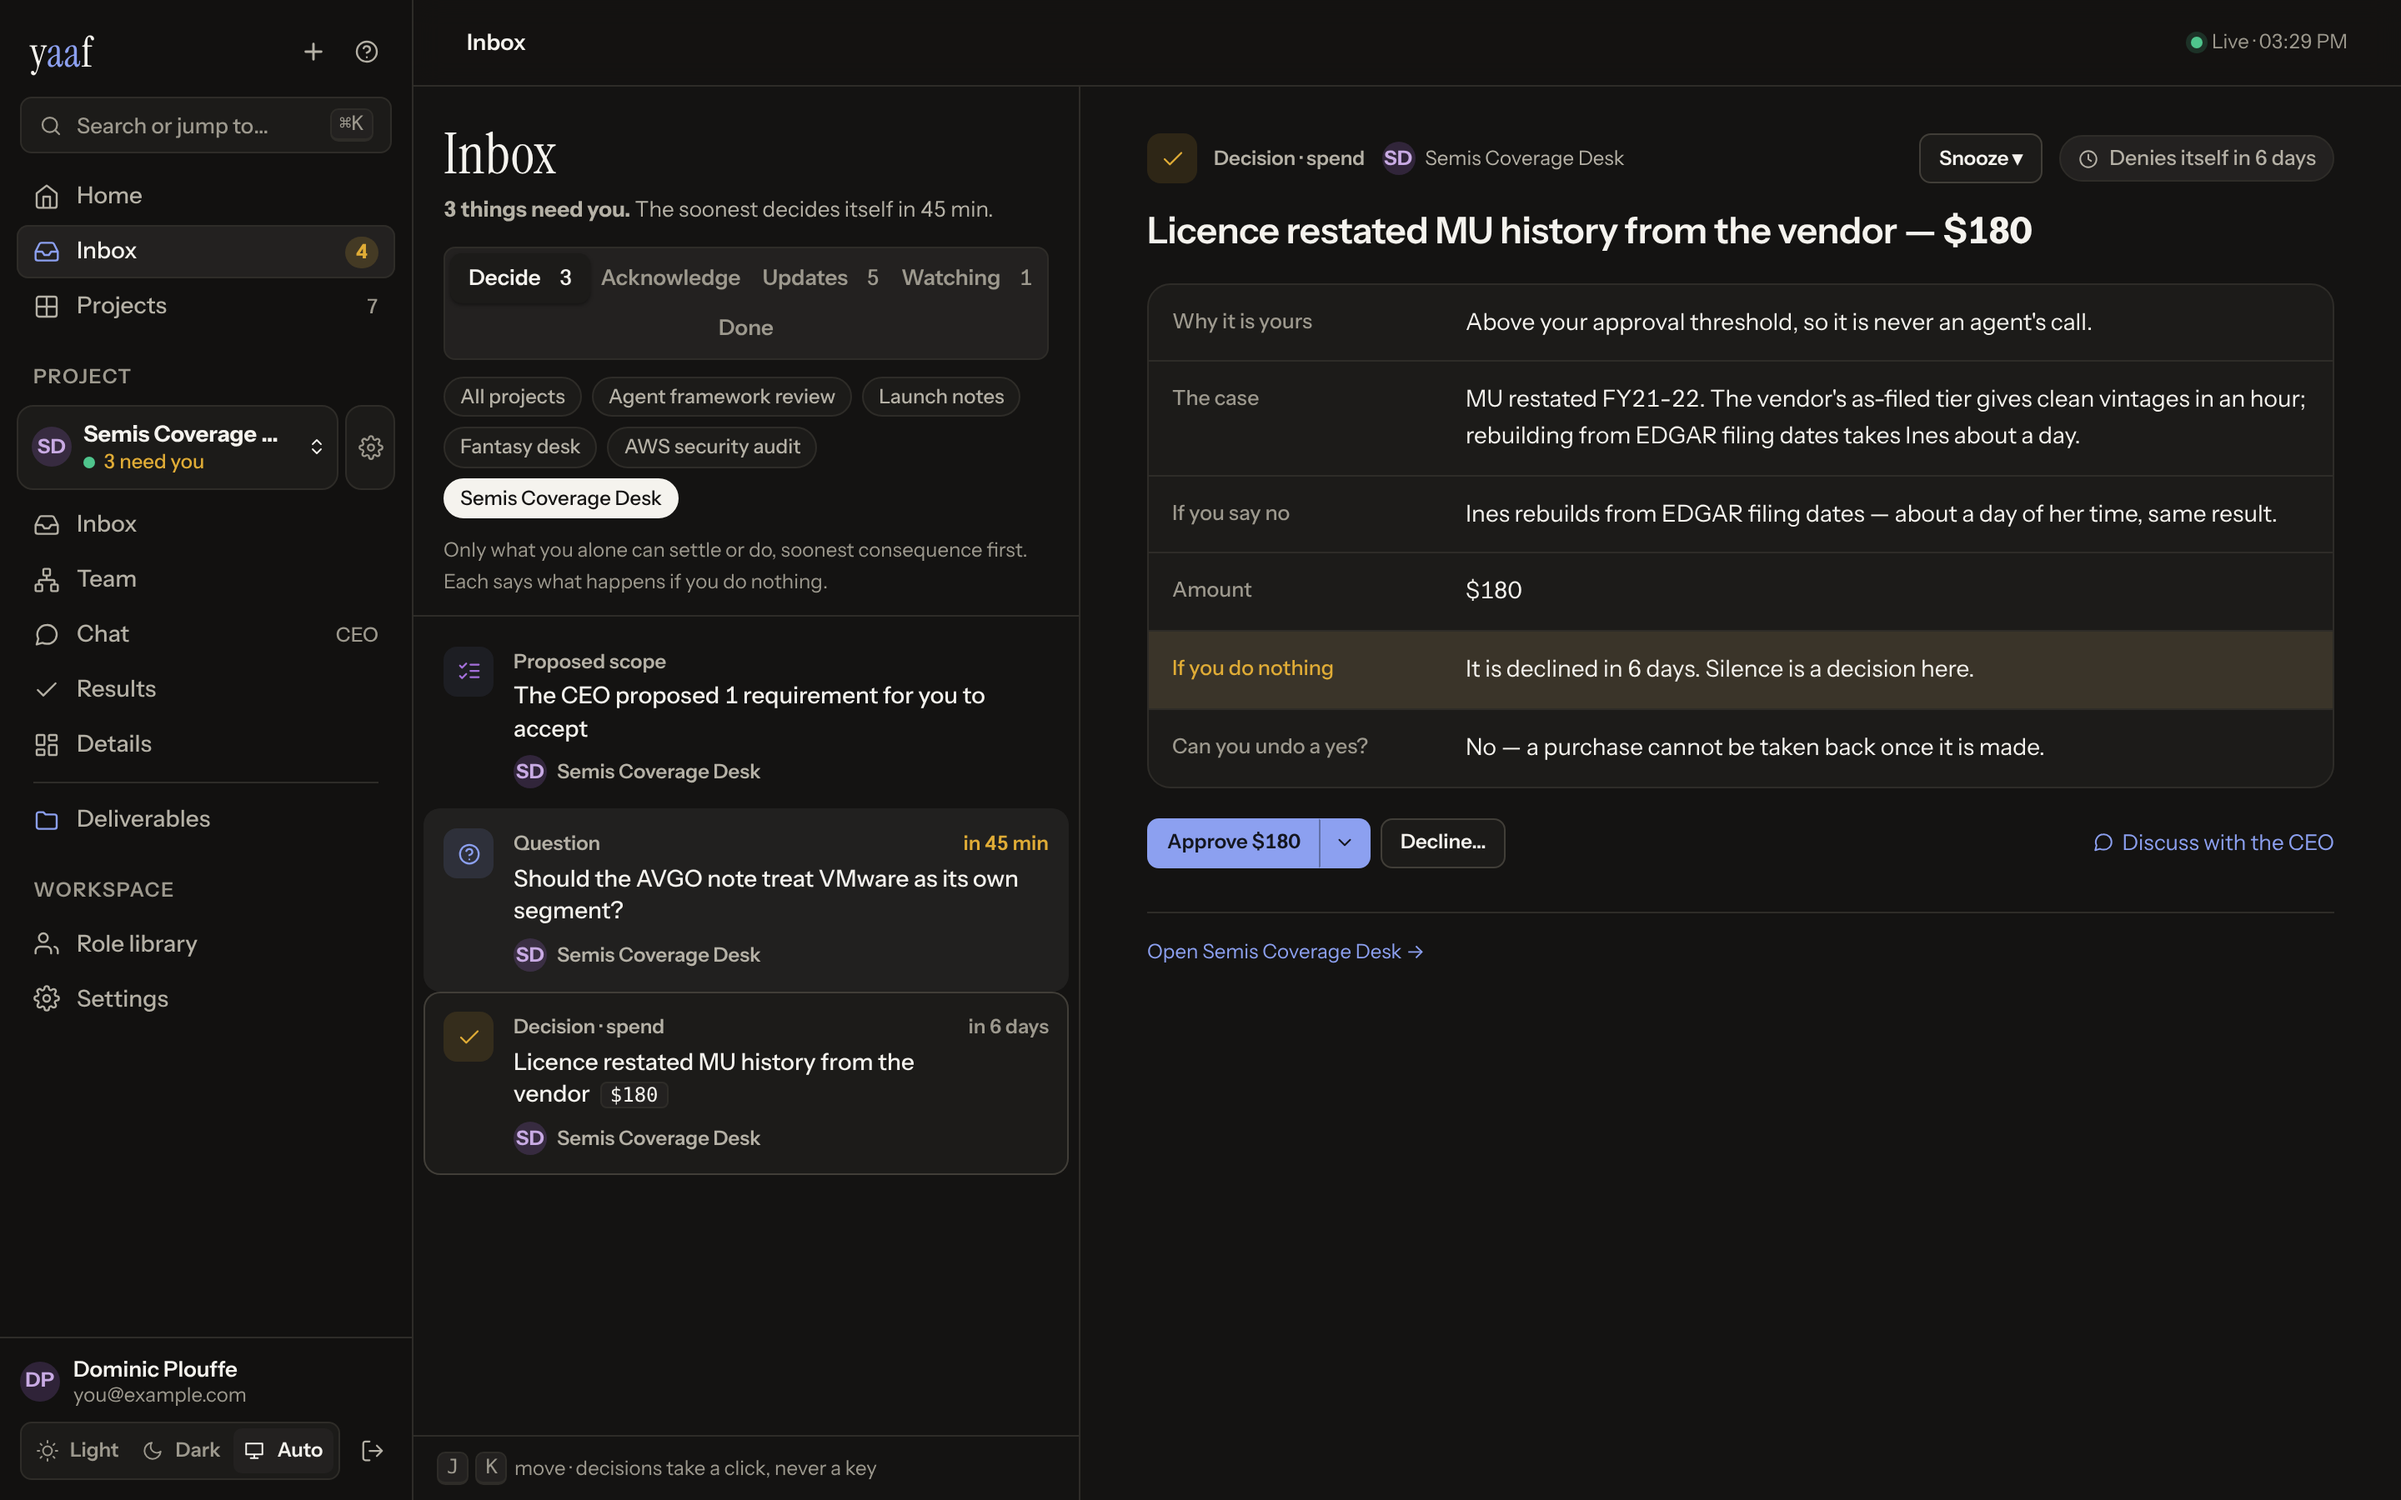
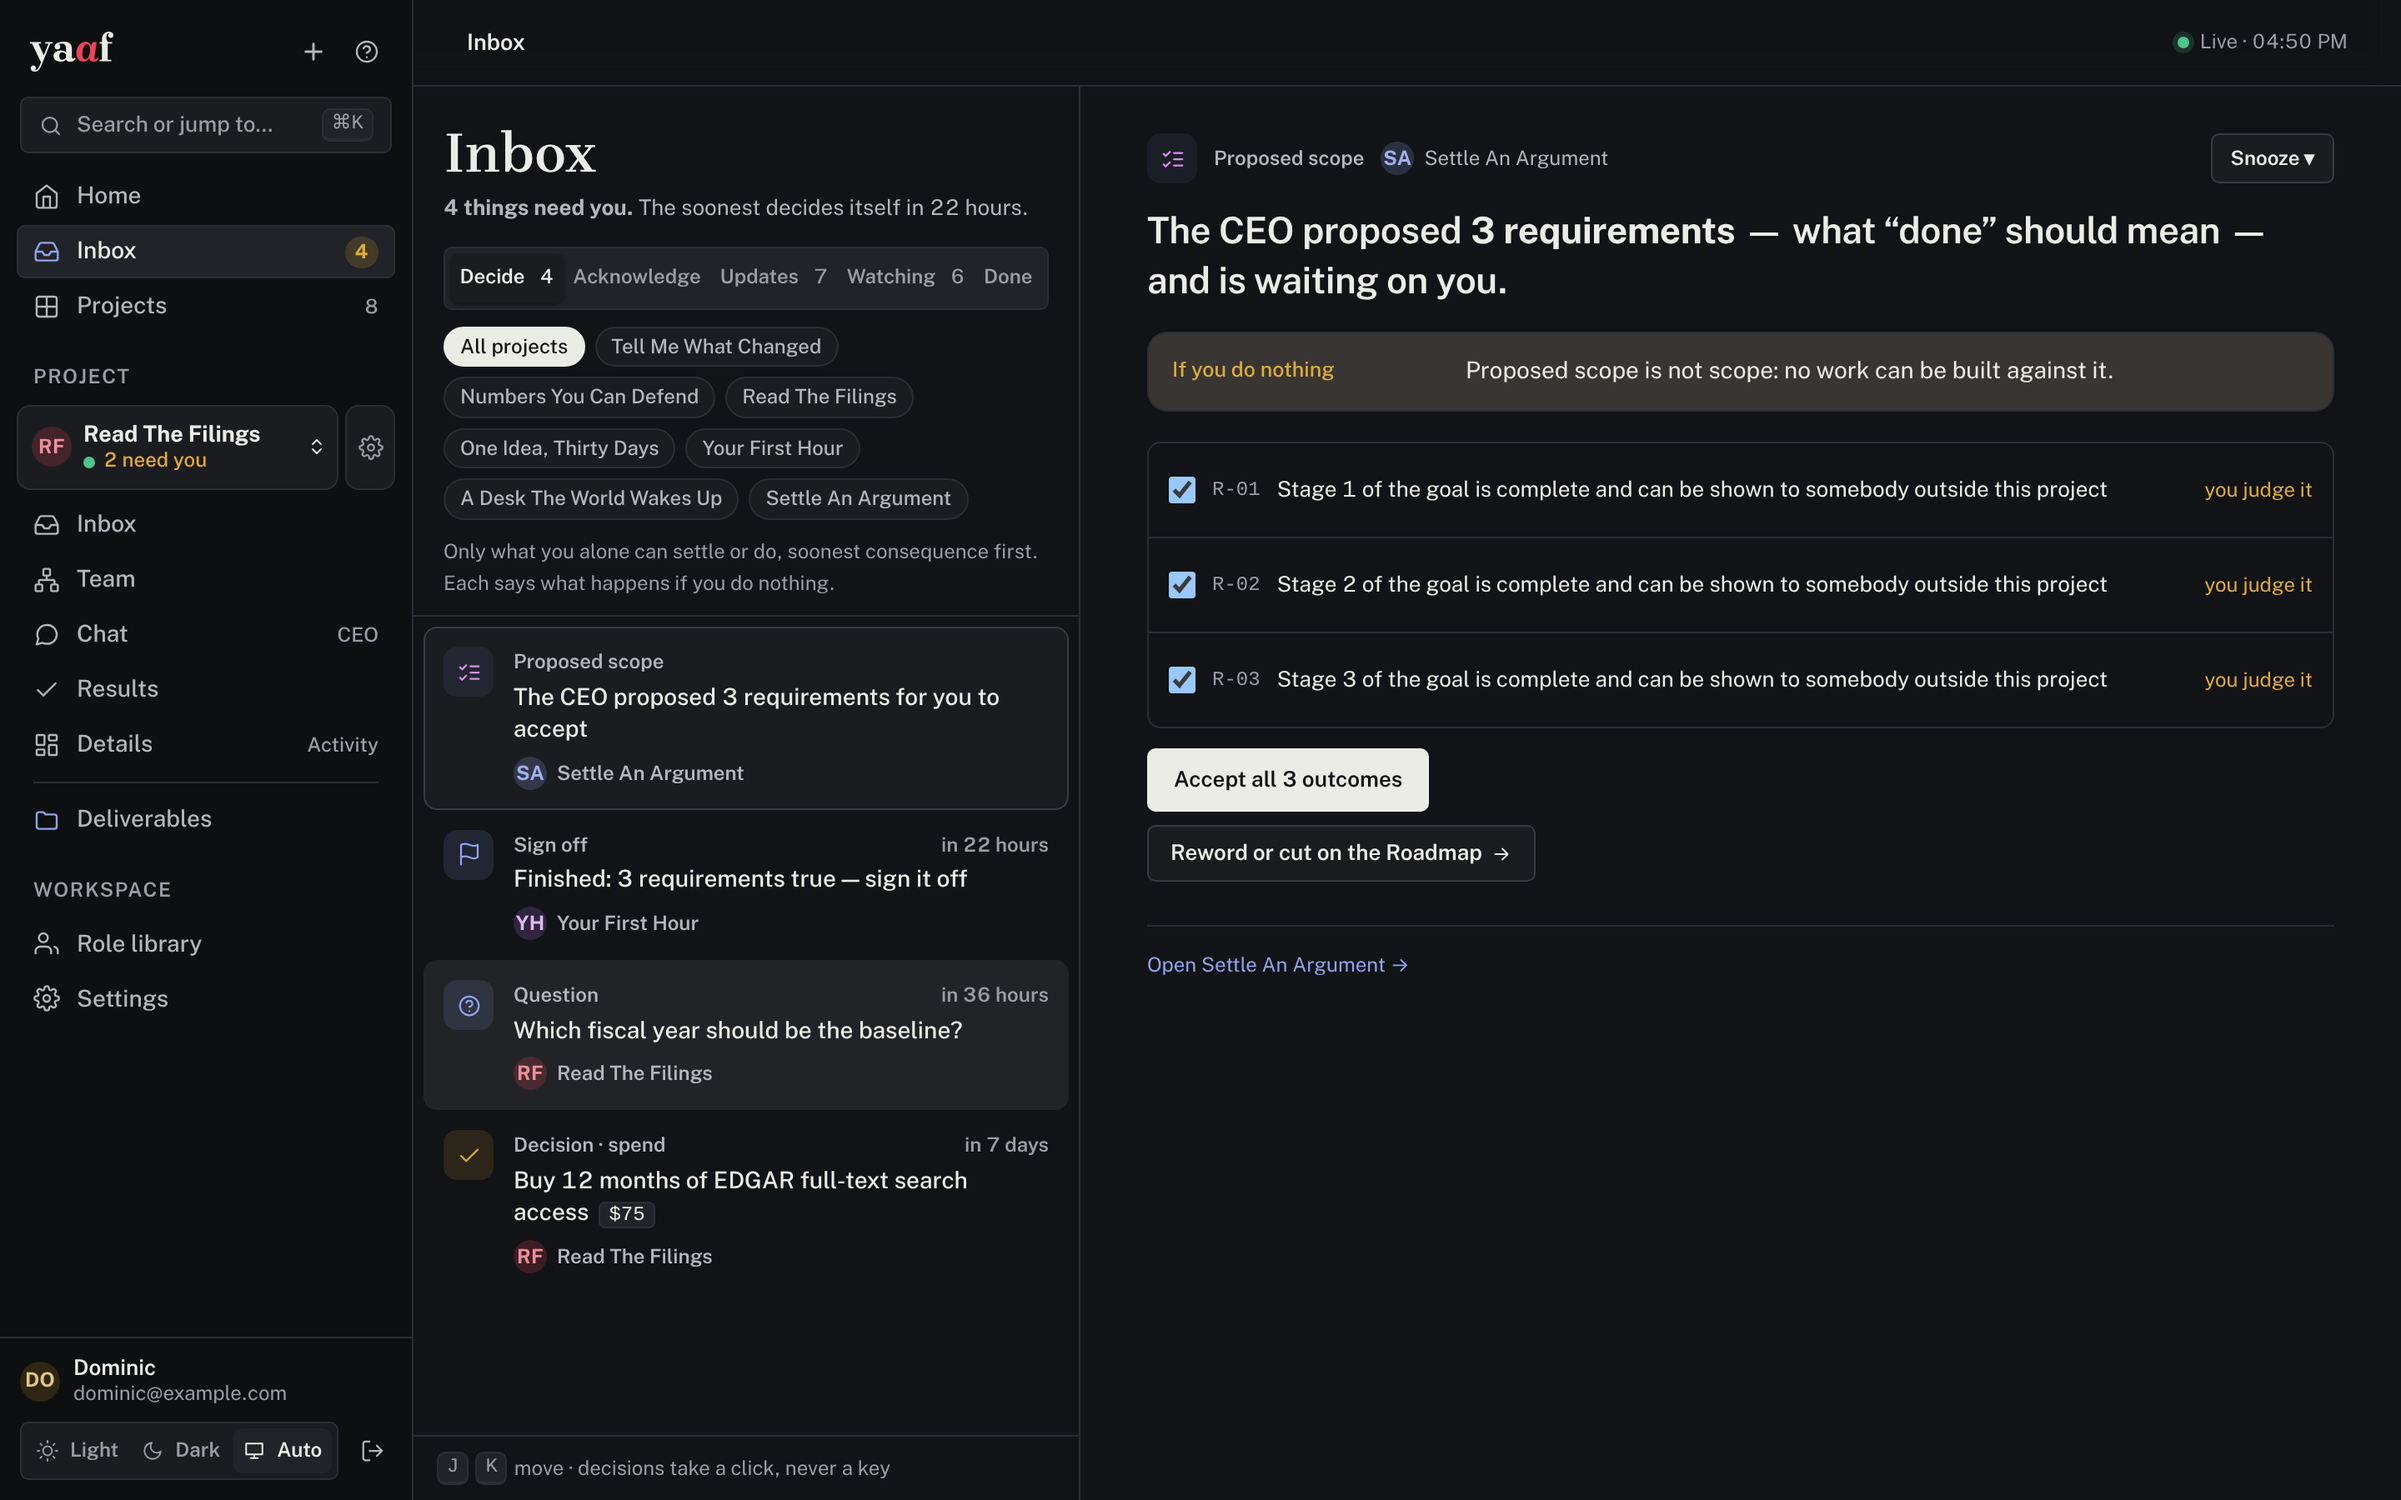
Proof for the brand work: before and after, and the docs screenshots
Eight screens in both themes from main and from the branded build, on the
demo seed, and docs/screenshots regenerated from the same build.

Claude-Session: https://claude.ai/code/session_01TVZVMy8voqXsGLyrhJ3mt3

diff --git a/docs/brand/proof/README.md b/docs/brand/proof/README.md
@@ -1,0 +1,16 @@
+# Proof: before and after
+
+The same eight screens, light and dark, 1440 px wide, full page.
+
+- `before/` — `main` at 856e0ee, before the brand work.
+- `after/` — the three brand PRs applied.
+
+Files are named `<screen>-<theme>.png`: `login`, `home`, `inbox`, `team`, `chat`,
+`results`, `details-roadmap`, `details-spend`, `settings`.
+
+Both sets come from the repository's own demo seed
+(`python tests/e2e/demo.py <dir> --serve=<port>`), signed in as
+`dominic@example.com`, on the project *Read The Filings*. The two builds ran on
+separately seeded databases, so clock times and a few seeded amounts differ
+between a pair; nothing else does. `docs/screenshots/` was regenerated from the
+same seed and the "after" build (dark, 1440 px at 2x).
